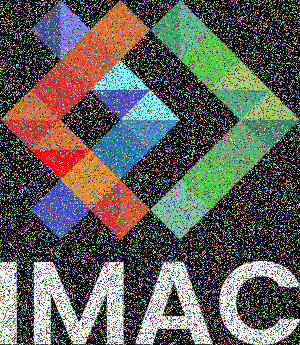
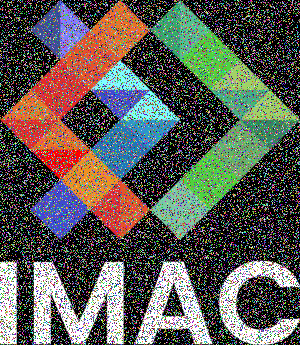
add vortex

diff --git a/src/main.cpp b/src/main.cpp
@@ -2,7 +2,7 @@
 #include <iostream>
 #include "random.hpp"
 #include <math.h>
-#include <corecrt_math_defines.h>
+#include <glm/gtx/matrix_transform_2d.hpp>
 
 void allGreen(sil::Image &image)
 {
@@ -228,33 +228,85 @@ old version avec boucle imbriquée donc pas fou fou
 }
 }*/
 
-[[nodiscard]] sil::Image glitch(sil::Image const &image)
+void glitch(sil::Image &image)
 {
-    sil::Image newImage{image};
     for (int x{0}; x < image.width(); x++)
     {
         for (int y{0}; y < image.height(); y++)
         {
             float const random_value = random_float(0.f, 1.f);
-            if (random_value < 0.10f)
+            if (random_value < 0.001f)
             {
-                //std::cout << "glitch à la position " << x << " " << y << std::endl;
-                int const random_width = random_int(1, 25);
+                // std::cout << "glitch à la position " << x << " " << y << std::endl;
+                int const random_width = random_int(1, 30);
                 int const random_height = random_int(1, 10);
                 int const random_x = random_int(1, image.width() - random_width);
                 int const random_y = random_int(1, image.height() - random_height);
 
-                for (int i{0}; i < random_width && x + i < image.width(); i++)
+                for (int i{0}; i < random_width; i++)
                 {
-                    for (int j{0}; j < random_height && y + j < image.height(); j++)
+                    if (x + i < image.width() && random_x + i < image.width())
                     {
-                        std::swap(newImage.pixel(x + i, y + j), newImage.pixel(random_x + i, random_y + j));
+                        std::swap(image.pixel(x + i, y), image.pixel(random_x + i, random_y));
+                    }
+                    for (int j{0}; j < random_height; j++)
+                    {
+                        if (y + j < image.height() && random_y + j < image.height() && random_x + i < image.width() && x + i < image.width())
+                        {
+                            std::swap(image.pixel(x + i, y + j), image.pixel(random_x + i, random_y + j));
+                        }
                     }
                 }
-                
-                x += random_width;
-                y += random_height;
+            }
+        }
+    }
+}
 
+void glitch2(sil::Image &image, int number_of_glitch)
+{
+    for (int i{0}; i < number_of_glitch; i++)
+    {
+        int const random_width = random_int(1, 25);
+        int const random_height = random_int(1, 10);
+        int const random_x1 = random_int(1, image.width() - random_width);
+        int const random_y1 = random_int(1, image.height() - random_height);
+        int const random_x2 = random_int(1, image.width() - random_width);
+        int const random_y2 = random_int(1, image.height() - random_height);
+
+        for (int x{0}; x < random_width; x++)
+        {
+            for (int y{0}; y < random_height; y++)
+            {
+                std::swap(image.pixel(random_x1 + x, random_y1 + y), image.pixel(random_x2 + x, random_y2 + y));
+            }
+        }
+    }
+}
+
+glm::vec2 rotated(glm::vec2 point, glm::vec2 center_of_rotation, float angle)
+{
+    return glm::vec2{glm::rotate(glm::mat3{1.f}, angle) * glm::vec3{point - center_of_rotation, 0.f}} + center_of_rotation;
+}
+
+[[nodiscard]] sil::Image vortex(sil::Image const&image)
+{
+    sil::Image newImage{image};
+    int const center_x{image.width()/2};
+    int const center_y{image.height()/2};
+
+    for (int x{0}; x < image.width(); x++)
+    {
+        for (int y{0}; y < image.height(); y++)
+        {
+            float const angle =glm::distance(glm::vec2(x,y), glm::vec2(center_x, center_y))/10.f;
+            glm::vec2 const new_position = rotated(glm::vec2{x, y}, glm::vec2{center_x, center_y}, angle);
+            if (new_position.x < image.width() && new_position.y < image.height() && new_position.x > 0 && new_position.y > 0)
+            {
+                newImage.pixel(x, y) = image.pixel(new_position.x, new_position.y);
+            }
+            else
+            {
+                newImage.pixel(x,y) = glm::vec3(0);
             }
         }
     }
@@ -340,7 +392,17 @@ int main()
         mosaiqueImage.save("output/exercice15.png");
     }
     {
-        sil::Image glitchImage(glitch(image));
-        glitchImage.save("output/exercice16.png");
+        sil::Image copy{image};
+        glitch(copy);
+        copy.save("output/exercice16.png");
+    }
+    {
+        sil::Image copy{image};
+        glitch2(copy, 100);
+        copy.save("output/exercice16.png");
+    }
+    {
+        sil::Image vortexImage{ vortex(image)};
+        vortexImage.save("output/exercice17.png");
     }
 }
